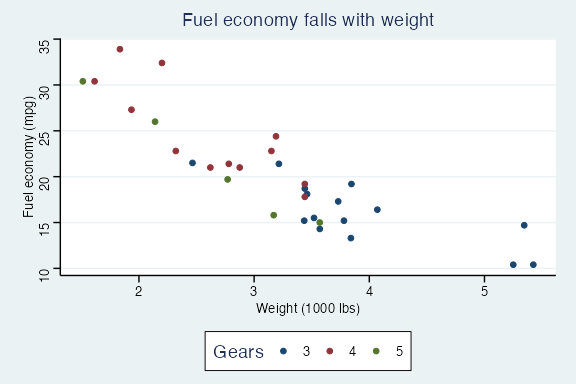
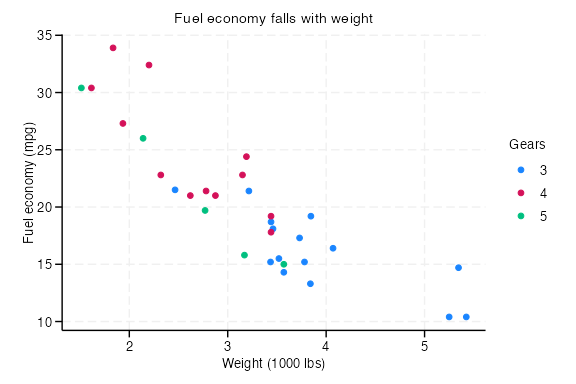
feat!: default the Stata scheme to stcolor
Stata 18 made stcolor its factory default; 7.0.0 announced that ggthemes
would follow in 8.0.0. Drop the omitted-scheme deprecation shim.

diff --git a/NEWS.md b/NEWS.md
@@ -2,6 +2,11 @@
 
 ## Breaking changes
 
+- `theme_stata()`, `stata_pal()`, `scale_colour_stata()` and
+  `scale_fill_stata()` now default to `scheme = "stcolor"`, Stata's factory
+  default since Stata 18, instead of `"s2color"`, as announced in 7.0.0. Use
+  `scheme = "s2color"` for the previous look.
+
 - ggthemes now requires ggplot2 4.0.0 or later.
 
 - Themes now set their own palettes as the defaults for discrete scales, so
